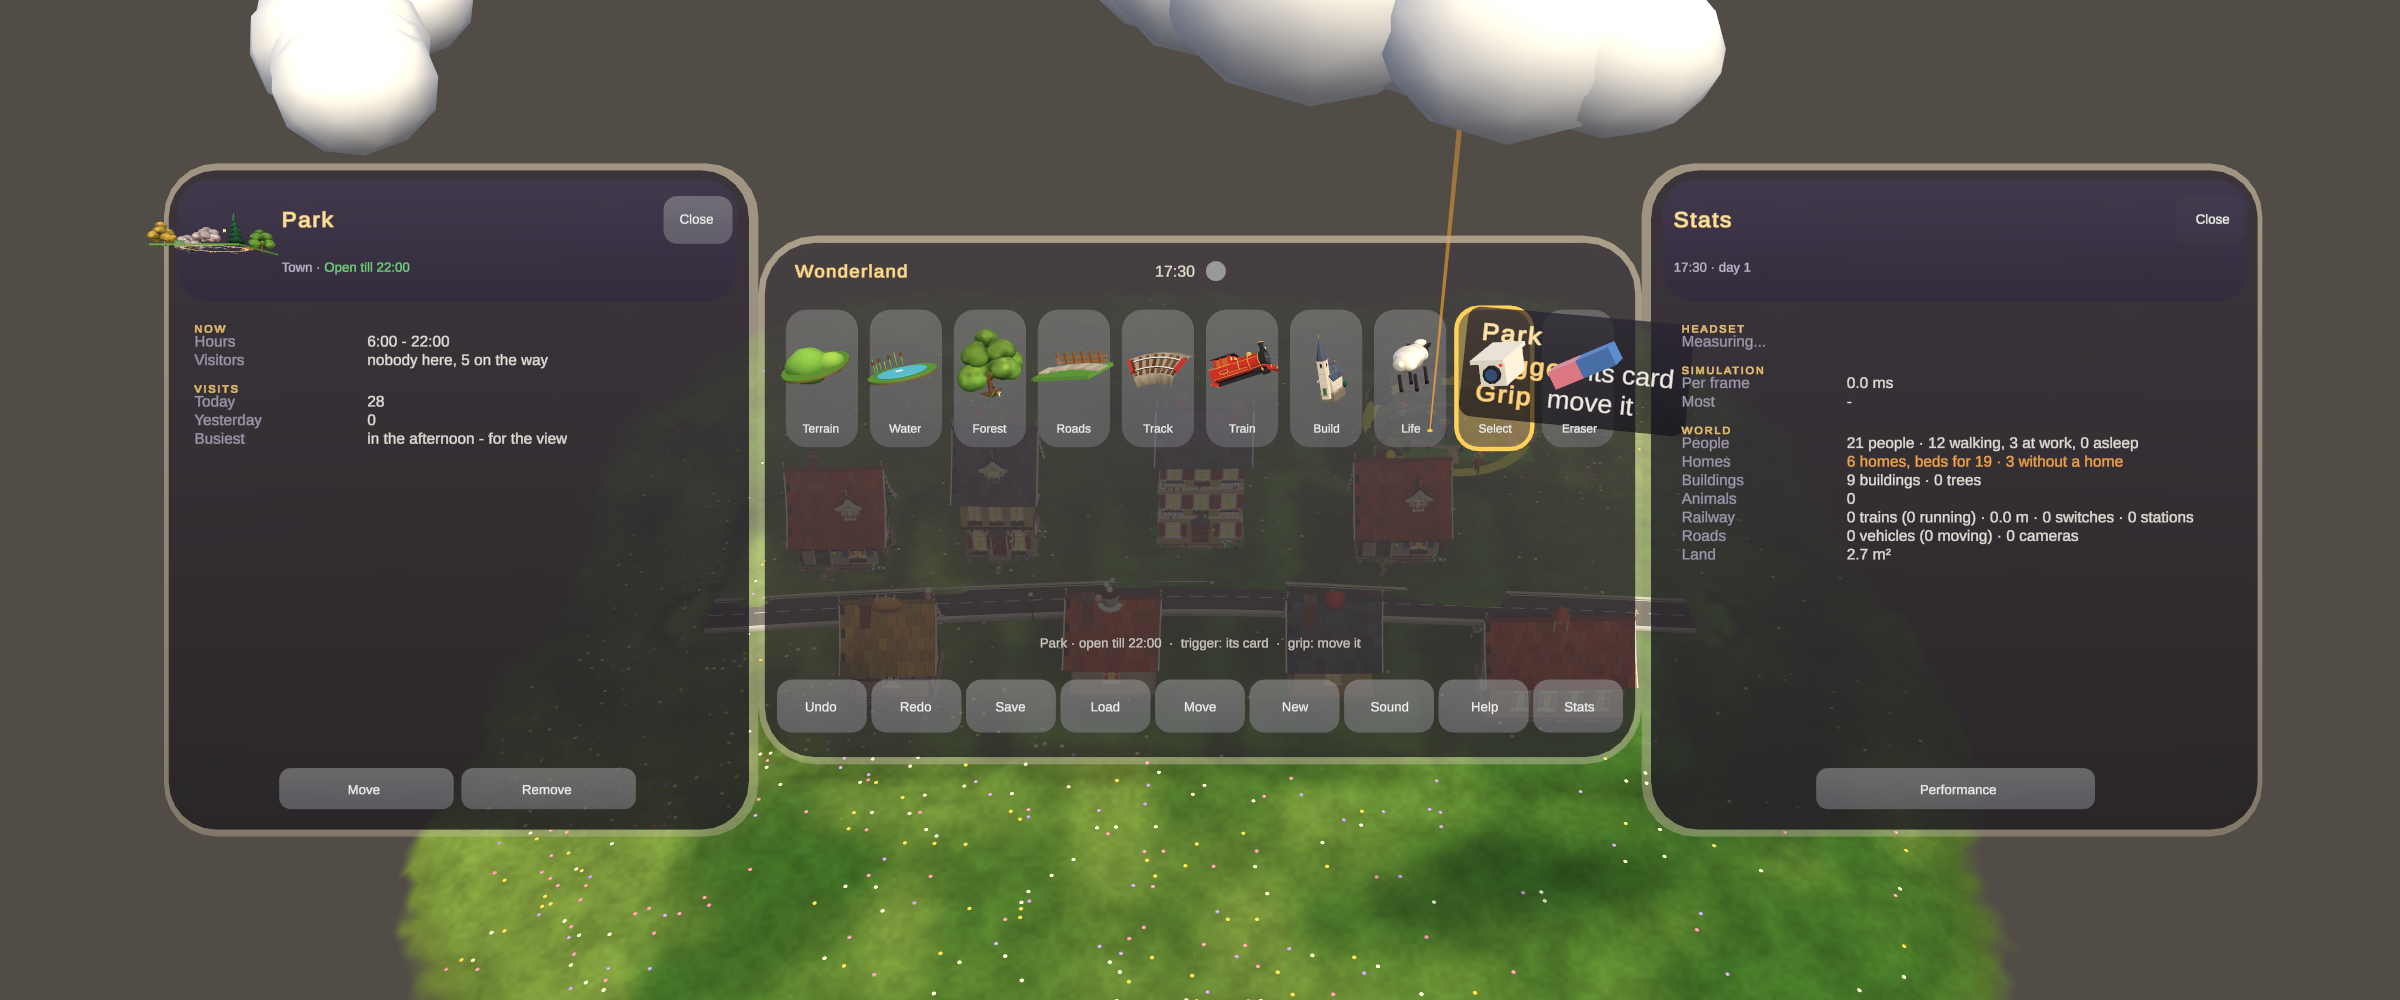
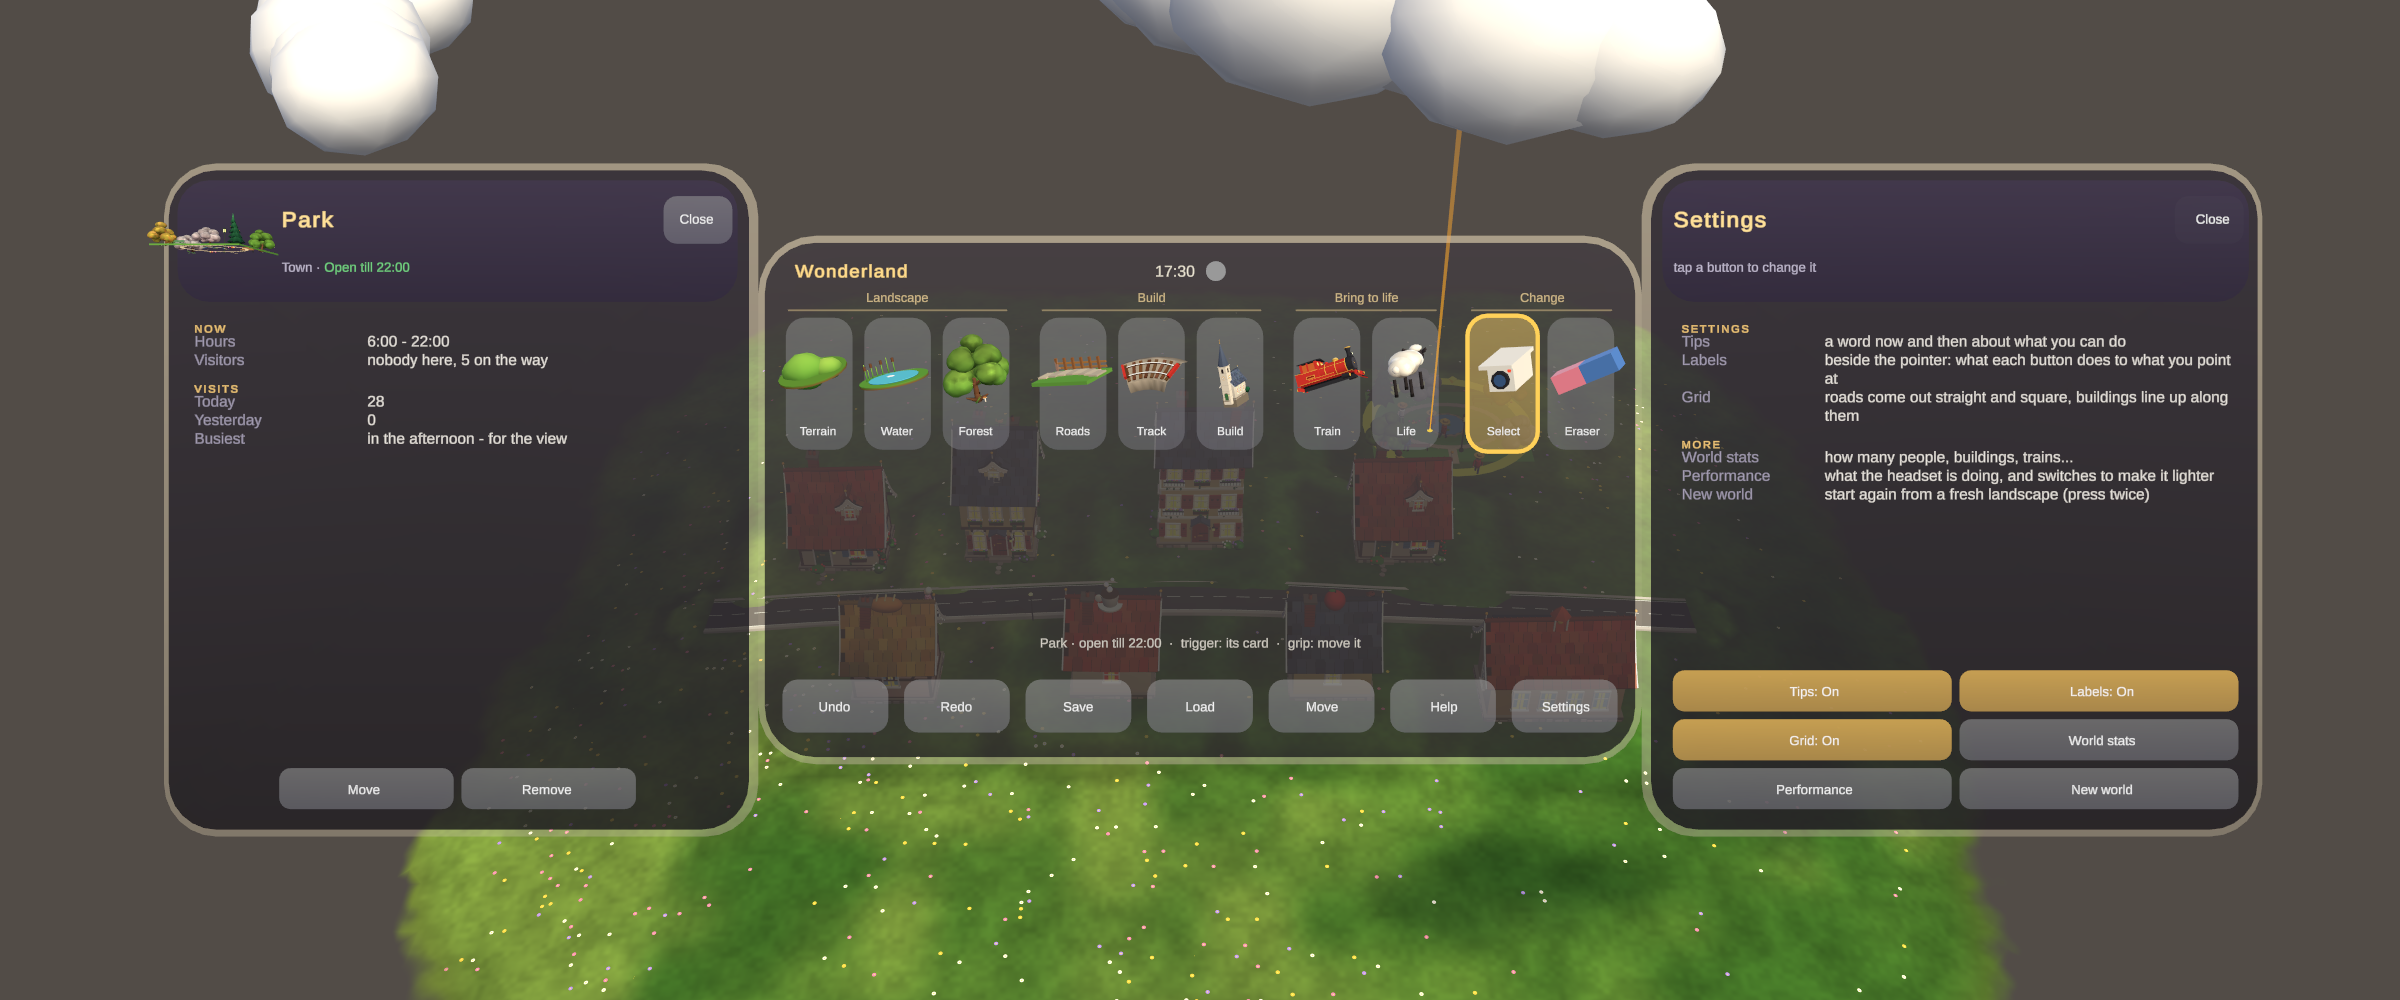
Palette in named groups; one Settings panel for everything that isn't a tool
- The tools in four groups, each named above its tiles: Landscape (Terrain, Water, Forest), Build (Roads, Track,
  Build), Bring to life (Train, Life), Change (Select, Eraser)
- The bottom row is Undo, Redo, Save, Load, Move, Help, Settings. Settings holds Sound, Tips, Labels (the pointer
  label), Grid, World stats, Performance and New world; each button says its state ("Tips: On")
- The pointer label hides while the palette is between the eyes and it

Changed region(s): [[0.3125, 0.279, 0.9375, 0.558], [0.3125, 0.651, 0.9375, 0.806], [0.6875, 0.217, 0.75, 0.279]]

diff --git a/Assets/Wonderland/Editor/WonderlandInteractionTest.cs b/Assets/Wonderland/Editor/WonderlandInteractionTest.cs
@@ -68,17 +68,20 @@ namespace Wonderland.Editor
             palette.AddGlobal("Load", () => tools.ShowWorlds(false));
             palette.AddGlobal("Redo", () => world.Redo());
             palette.AddGlobal("Help", tools.ToggleHelp);
-            palette.AddGlobal("Stats", tools.ToggleStats);
-            palette.AddGlobal("Tips", tools.ToggleTips);
+            palette.AddGlobal("Settings", tools.ToggleSettings);
             bool keepTips = ToolController.TipsOn;
             var hand = new Vector3(0.2f, 1.1f, 0.25f);
             // Tips: on, a first tip appears in the banner above the palette after a moment; the Tips button turns them off.
             if (!ToolController.TipsOn) tools.ToggleTips(); else { tools.ToggleTips(); tools.ToggleTips(); }   // (on, and starting over)
             for (int i = 0; i < 72 * 6; i++) Frame(hand, hand + Vector3.forward, false);
             string firstTip = palette.TipText;
-            ClickButton(hand, "Tips");
+            ClickButton(hand, "Settings");
+            ClickButton(hand, "Tips: On");
+            bool tipsSaysOff = Find("Tips: Off") != null;
+            ClickButton(hand, "Settings");
             for (int i = 0; i < 3; i++) Frame(hand, hand + Vector3.forward, false);
-            Check(!string.IsNullOrEmpty(firstTip) && !ToolController.TipsOn && string.IsNullOrEmpty(palette.TipText), $"A tip appears above the palette (\"{firstTip}\"), and the Tips button turns tips off");
+            Check(!string.IsNullOrEmpty(firstTip) && !ToolController.TipsOn && tipsSaysOff && string.IsNullOrEmpty(palette.TipText) && !palette.InfoShown,
+                $"A tip appears above the palette (\"{firstTip}\"), and Settings' Tips button turns tips off (and says so)");
             if (keepTips != ToolController.TipsOn) tools.ToggleTips();
 
             // Terrain: the default tool. Aim at the landscape and hold the trigger.
@@ -438,7 +441,14 @@ namespace Wonderland.Editor
             ClickButton(hand, "Help");
             var infoPanel = palette.transform.Find("Info");
             bool helpOpen = infoPanel != null && infoPanel.gameObject.activeSelf && palette.InfoShown;
-            ClickButton(hand, "Stats");
+            // Settings: the label at the pointer can be turned off (and on); Grid shows its state.
+            ClickButton(hand, "Settings");
+            bool settingsOpen = palette.InfoShown && Find("Labels: On") != null && Find(BuildGrid.Snap ? "Grid: On" : "Grid: Off") != null && Find("New world") != null;
+            ClickButton(hand, "Labels: On");
+            bool labelsOff = !ToolController.LabelsOn && Find("Labels: Off") != null;
+            ClickButton(hand, "Labels: Off");
+            Check(settingsOpen && labelsOff && ToolController.LabelsOn, "Settings beside the palette: Sound, Tips, Labels, Grid, World stats, Performance, New world - each says its state and a tap changes it");
+            ClickButton(hand, "World stats");
             string stats = tools.StatsText();
             bool statsTrue = palette.InfoShown && stats.Contains($"{world.People.People.Count} people") && stats.Contains($"{world.Buildings.Houses.Count} buildings");
             // The performance panel: from Stats; a setting cycles when tapped and takes effect; Defaults puts it back.
@@ -451,7 +461,7 @@ namespace Wonderland.Editor
             ClickButton(hand, "Defaults");
             Check(perfOpen && grassOff && PerfSettings.Grass.Value == 0 && world.Cover.Count == tufts, $"Stats opens the performance panel; Grass cycles to Off (no tufts) and Defaults brings them back ({tufts} tufts)");
             ClickButton(hand, "World stats");
-            ClickButton(hand, "Stats");
+            ClickButton(hand, "Settings");
             Check(helpOpen && statsTrue && !palette.InfoShown, "Help and Stats open beside the palette (with the world's own numbers) and close again");
             bool standIns = false; int levels = 0;
             foreach (var r in world.GetComponentsInChildren<Renderer>(true))
@@ -659,9 +669,9 @@ namespace Wonderland.Editor
             tools = new GameObject("Tools").AddComponent<ToolController>();
             tools.HapticsEnabled = false;
             tools.Init(world, palette, null);
-            foreach (var g in new[] { "Undo", "Redo", "Save", "Load", "Move", "New", "Sound" }) palette.AddGlobal(g, null);
+            foreach (var g in new[] { "Undo", "Redo", "Save", "Load", "Move" }) palette.AddGlobal(g, null);
             palette.AddGlobal("Help", tools.ToggleHelp);
-            palette.AddGlobal("Stats", tools.ToggleStats);
+            palette.AddGlobal("Settings", tools.ToggleSettings);
             var t = world.Terrain;
             world.BuildPath(new System.Collections.Generic.List<Vector3> { t.PointAt(-0.6f, 0f), t.PointAt(0f, 0f), t.PointAt(0.6f, 0f) }, PathKind.Road);
             foreach (var (id, x, z, rot) in new[] { (Catalog.Cottage, -0.45f, 0.12f, 0f), (Catalog.Townhouse, -0.25f, 0.12f, 0f), (Catalog.Apartments, 0.0f, 0.13f, 0f), (Catalog.Cottage, 0.25f, 0.12f, 0f),
@@ -680,12 +690,14 @@ namespace Wonderland.Editor
             var at = world.transform.TransformPoint(new Vector3(who.x, t.SurfaceAt(who.x, who.y), who.y));
             tools.SelectTool(Tool.Select);
             Frame(hand, at, false); Frame(hand, at, true); Frame(hand, at, false); Frame(hand, at, false);
-            tools.ToggleStats();
+            tools.ToggleSettings();
             var cam = new GameObject("Camera").AddComponent<Camera>();
             cam.clearFlags = CameraClearFlags.SolidColor; cam.backgroundColor = new Color(0.32f, 0.3f, 0.28f);
             cam.nearClipPlane = 0.05f; cam.fieldOfView = 34f;
             cam.transform.position = palette.transform.position - palette.transform.forward * 0.62f;
             cam.transform.rotation = Quaternion.LookRotation(palette.transform.forward, palette.transform.up);
+            cam.tag = "MainCamera";
+            Frame(hand, at, false); Frame(hand, at, false);
             WonderlandRenders.Capture(cam, "editor-cards-person-stats.png", 2400, 1000);
             // A building, and Help.
             int bakery = world.Buildings.Houses.FindIndex(h => h.variant == Catalog.Bakery);

diff --git a/Assets/Wonderland/Scripts/Interaction/PaletteUI.cs b/Assets/Wonderland/Scripts/Interaction/PaletteUI.cs
@@ -131,18 +131,20 @@ namespace Wonderland
             title.color = new Color(1f, 0.86f, 0.55f);
             title.fontStyle = FontStyles.Bold;
 
-            for (int i = 0; i < ToolNames.Length; i++)
+            // The tools in four groups, each named above its tiles: shaping the land, building, bringing it to life, and
+            // changing what is there.
+            const float groupGap = 0.007f;
+            float pitch = (Width - 0.012f - groupGap * (Groups.Length - 1)) / ToolNames.Length;
+            float left = -Width / 2 + 0.006f;
+            foreach (var (heading, members) in Groups)
             {
-                var tool = (Tool)i;
-                float pitch = (Width - 0.012f) / ToolNames.Length;
-                float x = -Width / 2 + 0.006f + pitch * (i + 0.5f);
-                var b = Button(ToolNames[i], transform, new Vector3(x, 0.046f, 0f), new Vector2(pitch - 0.0045f, 0.052f), ToolNames[i], true);
-                b.Label.transform.localPosition = new Vector3(0f, -0.019f, -0.003f);
-                b.Icon = Icon(tool, b.transform);
-                (b.IconYaw, b.IconPitch) = tool switch { Tool.Train => (115f, -15f), Tool.Track => (20f, -55f), Tool.Terrain => (25f, -30f), _ => (30f, -20f) };
-                b.ApplyVisuals();
-                b.OnClick = () => ToolSelected?.Invoke(tool);
-                tools[tool] = b;
+                float span = pitch * members.Length;
+                var h = Text("Group " + heading, transform, heading, new Vector3(left + span / 2, 0.0765f, -0.002f), new Vector2(span - 0.004f, 0.009f), 0.048f, TextAlignmentOptions.Center);
+                h.color = new Color(0.86f, 0.76f, 0.56f);
+                var rule = Quad("Rule", transform, span - 0.006f, 0.0006f, 0.0003f, new Color(0.86f, 0.76f, 0.56f, 0.35f), new Color(0.86f, 0.76f, 0.56f, 0.35f), -0.001f, 2993);
+                rule.transform.localPosition = new Vector3(left + span / 2, 0.0718f, -0.001f);
+                for (int m = 0; m < members.Length; m++) MakeTool(members[m], left + pitch * (m + 0.5f), pitch);
+                left += span + groupGap;
             }
             optionRow = new GameObject("Options").transform;
             optionRow.SetParent(transform, false);
@@ -161,6 +163,27 @@ namespace Wonderland
             health.transform.localPosition = new Vector3(0.006f, Height / 2 - 0.011f, -0.002f);
         }
 
+        /// <summary>The tools as the palette shows them: in groups, each with a heading.</summary>
+        public static readonly (string heading, Tool[] tools)[] Groups =
+        {
+            ("Landscape", new[] { Tool.Terrain, Tool.Water, Tool.Forest }),
+            ("Build", new[] { Tool.Paths, Tool.Track, Tool.Houses }),
+            ("Bring to life", new[] { Tool.Train, Tool.Decor }),
+            ("Change", new[] { Tool.Select, Tool.Eraser }),
+        };
+
+        private void MakeTool(Tool tool, float x, float pitch)
+        {
+            string name = ToolNames[(int)tool];
+            var b = Button(name, transform, new Vector3(x, 0.044f, 0f), new Vector2(pitch - 0.0045f, 0.05f), name, true);
+            b.Label.transform.localPosition = new Vector3(0f, -0.018f, -0.003f);
+            b.Icon = Icon(tool, b.transform);
+            (b.IconYaw, b.IconPitch) = tool switch { Tool.Train => (115f, -15f), Tool.Track => (20f, -55f), Tool.Terrain => (25f, -30f), _ => (30f, -20f) };
+            b.ApplyVisuals();
+            b.OnClick = () => ToolSelected?.Invoke(tool);
+            tools[tool] = b;
+        }
+
         private TextMeshPro clock;
         public string ClockText => clock != null ? clock.text : null;
         private MeshRenderer health;
@@ -174,7 +197,7 @@ namespace Wonderland
             health.sharedMaterial.SetColor(TintId, light);
         }
 
-        public const float GlobalWidth = 0.034f;   // nine fit along the bottom
+        public const float GlobalWidth = 0.04f;    // seven fit along the bottom
 
         public PaletteButton AddGlobal(string label, Action onClick)
         {

diff --git a/Assets/Wonderland/Scripts/Interaction/ToolController.Settings.cs b/Assets/Wonderland/Scripts/Interaction/ToolController.Settings.cs
@@ -1,0 +1,60 @@
+using System;
+using System.Collections.Generic;
+using UnityEngine;
+
+namespace Wonderland
+{
+    /// <summary>
+    /// Settings: one place, beside the palette, for everything that isn't a tool - sound, tips, the label at the
+    /// pointer, the building grid, the world's numbers, the performance switches and starting a new world. Each button
+    /// says its current state ("Tips: On"); a tap changes it.
+    /// </summary>
+    public sealed partial class ToolController
+    {
+        /// <summary>Sound, from the app: its state in a word ("On", "Quiet", "Off"), and a way to change it.</summary>
+        public Func<string> SoundState;
+        public Action CycleSound;
+
+        private static string OnOff(bool on) => on ? "On" : "Off";
+
+        /// <summary>The Settings button: opens the panel; closes it (or Stats / Performance, opened from it).</summary>
+        public void ToggleSettings()
+        {
+            if (infoMode is 1 or 3 or 4) CloseInfo();
+            else { infoMode = 4; ShowSettings(); }
+        }
+
+        private void ShowSettings()
+        {
+            var body = new CardText(26).Section("Settings");
+            if (CycleSound != null) body.Row("Sound", "on, quiet or off");
+            body.Row("Tips", "a word now and then about what you can do")
+                .Row("Labels", "beside the pointer: what each button does to what you point at")
+                .Row("Grid", "roads come out straight and square, buildings line up along them")
+                .Section("More")
+                .Row("World stats", "how many people, buildings, trains...")
+                .Row("Performance", "what the headset is doing, and switches to make it lighter")
+                .Row("New world", "start again from a fresh landscape (press twice)");
+            Palette.ShowInfo("Settings", "tap a button to change it", body.ToString(), CloseInfo);
+            var o = new List<PaletteUI.Option>();
+            if (CycleSound != null) o.Add(new PaletteUI.Option("Sound: " + SoundState(), false, () => { CycleSound(); ShowSettings(); }));
+            o.Add(new PaletteUI.Option("Tips: " + OnOff(TipsOn), TipsOn, () => { ToggleTips(); ShowSettings(); }));
+            o.Add(new PaletteUI.Option("Labels: " + OnOff(LabelsOn), LabelsOn, () =>
+            {
+                LabelsOn = !LabelsOn; labelKey = 0;
+                Say(LabelsOn ? "Labels on: the pointer says what each button does" : "Labels off - Help still explains each tool");
+                ShowSettings();
+            }));
+            o.Add(new PaletteUI.Option("Grid: " + OnOff(BuildGrid.Snap), BuildGrid.Snap, () =>
+            {
+                BuildGrid.Snap = !BuildGrid.Snap;
+                Say(BuildGrid.Snap ? "Grid on: roads come out straight and square, buildings line up along the roads" : "Grid off: draw and place freely");
+                RefreshOptions(); ShowSettings();
+            }));
+            o.Add(new PaletteUI.Option("World stats", false, () => { infoMode = 1; ShowStats(); }));
+            o.Add(new PaletteUI.Option("Performance", false, ShowPerformance));
+            o.Add(new PaletteUI.Option(resetArmed && Time.time < resetUntil ? "Sure? Again" : "New world", resetArmed && Time.time < resetUntil, () => { RequestReset(); ShowSettings(); }));
+            Palette.SetInfoButtons(o);
+        }
+    }
+}

diff --git a/Assets/Wonderland/Scripts/App/WonderlandApp.cs b/Assets/Wonderland/Scripts/App/WonderlandApp.cs
@@ -95,19 +95,15 @@ namespace Wonderland
             Palette.AddGlobal("Save", () => Tools.ShowWorlds(true));
             Palette.AddGlobal("Load", () => Tools.ShowWorlds(false));
             Palette.AddGlobal("Move", () => { Tools.PlacingWorld = true; Tools.Say("Point where the world should grow"); });
-            Palette.AddGlobal("New", Tools.RequestReset);
-            PaletteButton sound = null;
-            string SoundLabel() => SoundSystem.Setting switch { SoundSetting.On => "Sound", SoundSetting.Quiet => "Quiet", _ => "Muted" };
-            sound = Palette.AddGlobal(SoundLabel(), () =>
+            // Sound, tips, labels, the grid, stats, performance and New world: all under Settings.
+            Tools.SoundState = () => SoundSystem.Setting switch { SoundSetting.On => "On", SoundSetting.Quiet => "Quiet", _ => "Off" };
+            Tools.CycleSound = () =>
             {
                 SoundSystem.Setting = (SoundSetting)(((int)SoundSystem.Setting + 1) % 3);
-                sound.Label.text = SoundLabel();
                 Tools.Say(SoundSystem.Setting switch { SoundSetting.On => "Sound on", SoundSetting.Quiet => "Sound quiet", _ => "Sound off" });
-            });
+            };
             Palette.AddGlobal("Help", Tools.ToggleHelp);
-            PaletteButton tips = null;
-            tips = Palette.AddGlobal(ToolController.TipsOn ? "Tips" : "No tips", () => { Tools.ToggleTips(); tips.Label.text = ToolController.TipsOn ? "Tips" : "No tips"; });
-            Palette.AddGlobal("Stats", Tools.ToggleStats);
+            Palette.AddGlobal("Settings", Tools.ToggleSettings);
             Tools.Perf = GetComponent<PerfLog>();
             // The little figures (2-3 cm) are not drawn further than 3 m from the eyes: barely a pixel there, and in a big
             // world over a thousand draws saved (the CCTV camera still sees them).

diff --git a/Assets/Wonderland/Scripts/Interaction/ToolController.Label.cs b/Assets/Wonderland/Scripts/Interaction/ToolController.Label.cs
@@ -152,6 +152,10 @@ namespace Wonderland
             float k = Mathf.Clamp(d / 0.5f, 0.5f, 5f);
             // Up and right of the tip, pulled a little towards the eye so it never sinks into what it names.
             var at = tip + (right * 0.016f + up * 0.012f) * k - toTip * Mathf.Min(0.05f, d * 0.08f);
+            // Never over the palette (or a panel beside it): when it is between the eyes and the label, the label waits.
+            var look = at - eye;
+            if (Palette != null && Palette.gameObject.activeInHierarchy && Palette.RayHitsPanel(new Ray(eye, look.normalized), out float behind) && behind < look.magnitude)
+            { label.gameObject.SetActive(false); return; }
             label.transform.SetPositionAndRotation(at, Quaternion.LookRotation(toTip, up));
             label.transform.localScale = Vector3.one * k;
         }

diff --git a/Assets/Wonderland/Scripts/Interaction/ToolController.cs b/Assets/Wonderland/Scripts/Interaction/ToolController.cs
@@ -1235,7 +1235,7 @@ namespace Wonderland
         {
             if (resetArmed) { resetArmed = false; ResetRequested?.Invoke(); return; }
             resetArmed = true; resetUntil = Time.time + 3f;
-            Say("Press New again to start a fresh world", 3f);
+            Say("Press New world again to start a fresh landscape", 3f);
         }
 
         private void Haptic(float amplitude, float seconds)
